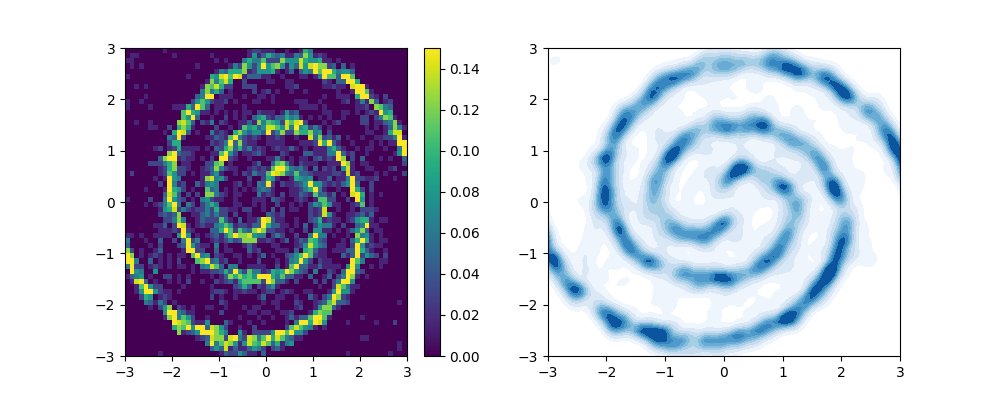
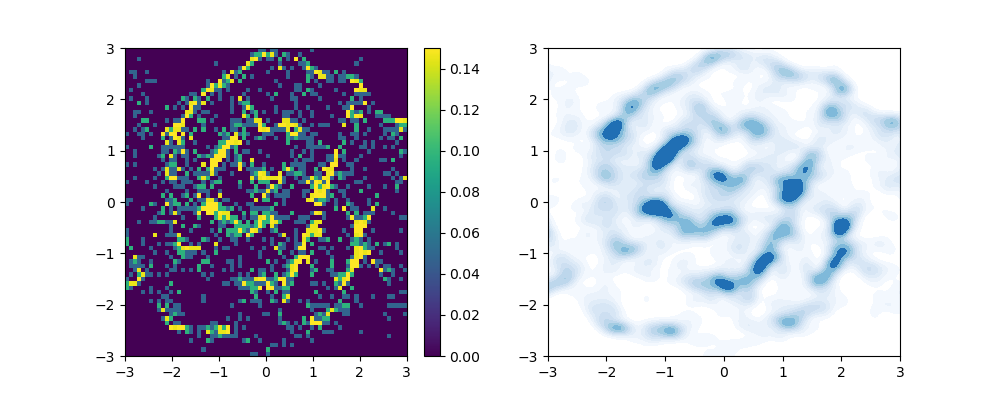
generic commit

diff --git a/scripts/transport/kvae_flow.py b/scripts/transport/kvae_flow.py
@@ -68,7 +68,7 @@ class Comp_transport_model:
         self.plot_steps = False
 
         n = len(self.submodel_params['Lambda_mean'])
-        eps = 1e-3
+        eps = 1e-4
         self.noise_shrink_c = np.exp(np.log(eps)/(n))
 
 
@@ -92,10 +92,10 @@ class Comp_transport_model:
         return z_mean
 
 
-    def map_var(self, x_mu, y_eta, y_mean, Lambda_var, X_var, y_var, fit_kernel):
+    def map_var(self, x_mu, y_eta, y_mean, Lambda_var, X_var, fit_kernel):
         if not self.approx:
             y_eta = shuffle(y_eta)
-        x_var = torch.concat([x_mu, y_eta, y_mean, y_var], dim=1)
+        x_var = torch.concat([x_mu, y_eta, y_mean], dim=1)
         Lambda_var = Lambda_var
 
         z_var = fit_kernel(X_var, x_var).T @ Lambda_var
@@ -121,7 +121,7 @@ class Comp_transport_model:
             y_var = 0 * y_mean
 
         z_mean = self.map_mean(x_mu, y_mean, Lambda_mean, X_mean, fit_kernel)
-        z_var = self.map_var(x_mu, y_eta, y_mean, Lambda_var, X_var, y_var, fit_kernel)
+        z_var = self.map_var(x_mu, y_eta, y_mean, Lambda_var, X_var,  fit_kernel)
         z = z_mean + z_var
 
         y_approx = y_mean + y_var
@@ -176,18 +176,18 @@ class CondTransportKernel(nn.Module):
 
         self.Y_mean = deepcopy(self.Y_eta)
         self.Y_var =  0 * self.Y_mean
+        self.X_var = torch.concat([self.X_mu, shuffle(self.Y_eta), self.Y_mean], dim=1)
         self.approx = self.params['approx']
         if self.approx:
             self.Y_mean = geq_1d(torch.tensor(base_params['Y_mean'], device=self.device, dtype=self.dtype))
             self.Y_var = geq_1d(torch.tensor(base_params['Y_var'], device=self.device, dtype=self.dtype))
-            self.params['approx'] = True
+            self.X_var = torch.concat([self.X_mu, self.Y_eta, self.Y_mean], dim=1)
+
+        self.X_mean = torch.concat([self.X_mu, self.Y_mean], dim=1)
         self.Y_approx = self.Y_mean + self.Y_var
 
         self.Y_mu = geq_1d(torch.tensor(base_params['Y_mu'], device=self.device, dtype=self.dtype))
         self.Y = torch.concat([self.X_mu, self.Y_mu], dim=1)
-
-        self.X_var = torch.concat([self.X_mu, self.Y_eta, self.Y_mean, self.Y_var], dim=1)
-        self.X_mean = torch.concat([self.X_mu, self.Y_mean], dim=1)
 
         self.Nx = len(self.X_mean)
         self.Ny = len(self.Y)
@@ -263,14 +263,13 @@ class CondTransportKernel(nn.Module):
         return z_mean
 
 
-    def map_var(self, x_mu, y_eta, y_mean, y_var = []):
+    def map_var(self, x_mu, y_eta, y_mean):
         if not self.approx:
             y_eta = shuffle(y_eta)
 
         y_mean = geq_1d(torch.tensor(y_mean, device=self.device, dtype=self.dtype))
-        y_var = geq_1d(torch.tensor(y_var, device=self.device, dtype=self.dtype))
 
-        x_var = torch.concat([x_mu, y_eta, y_mean, y_var], dim=1)
+        x_var = torch.concat([x_mu, y_eta, y_mean], dim=1)
         Lambda_var = self.get_Lambda_var()
 
         z_var = self.fit_kernel(self.X_var, x_var).T @ Lambda_var
@@ -288,7 +287,7 @@ class CondTransportKernel(nn.Module):
             y_var = 0 * y_mean
 
         z_mean = self.map_mean(x_mu, y_eta, y_mean)
-        z_var = self.map_var(x_mu, y_eta, y_mean, y_var)
+        z_var = self.map_var(x_mu, y_eta, y_mean)
         z = z_mean + z_var
 
         y_approx = y_mean + y_var
@@ -315,7 +314,7 @@ class CondTransportKernel(nn.Module):
 
 
     def loss_mmd(self):
-        map_vec = torch.concat([self.X_mu, self.Y_approx  + self.Z_mean +  self.Z_var], dim=1)
+        map_vec = torch.concat([self.X_mu, self.Y_approx  + self.Z_mean + self.Z_var], dim=1)
         target = self.Y
 
         mmd_ZZ = self.mmd_kernel(map_vec, map_vec)
@@ -360,7 +359,7 @@ class CondTransportKernel(nn.Module):
         return loss, loss_dict
 
 
-def cond_kernel_transport(X_mu, Y_mu, Y_eta, params, n_iter = 101,  iters = 0,  approx = False, X_mu_test = [],
+def cond_kernel_transport(X_mu, Y_mu, Y_eta, params, n_iter = 101,  iters = -1,  approx = False, X_mu_test = [],
                           Y_mean = [],Y_var = [], Y_eta_test = [],Y_mu_test = [], Y_mean_test = [], Y_var_test =[]):
     transport_params = {'X_mu': X_mu, 'Y_mu': Y_mu, 'Y_eta': Y_eta, 'reg_lambda': 1e-5, 'Y_mean': Y_mean, 'Y_var': Y_var,
                         'fit_kernel_params': deepcopy(params['mmd']), 'mmd_kernel_params': deepcopy(params['fit']),
@@ -375,8 +374,8 @@ def cond_kernel_transport(X_mu, Y_mu, Y_eta, params, n_iter = 101,  iters = 0,  
 def comp_cond_kernel_transport(X_mu, Y_mu, Y_eta, params, n_iter = 101, n = 50,
                                Y_eta_test = [], X_mu_test = [],Y_mu_test = [], f = 1):
     model_params = {'fit_kernel': [], 'Lambda_mean': [], 'X_mean': [], 'Lambda_var': [], 'X_var': []}
-    iters = 0
-    eps = 1e-3
+    iters = -1
+    eps = 1e-4
     noise_shrink_c = np.exp(np.log(eps)/(n))
 
     Y_mean = 0
@@ -701,10 +700,10 @@ def vl_exp(N=10000, n_iter=101, Yd=18, normal=True, exp_name='vl_exp'):
 
 def run():
     ref_gen = sample_normal
-    target_gen = sample_spirals
+    target_gen = mgan2
     N = 3000
     two_d_exp(ref_gen, target_gen, N, n_iter=101, plt_range=[[-3, 3], [-3, 3]], process_funcs=[], skip_idx=1,
-              slice_vals=[0], slice_range=[-3, 3], exp_name='spiral_kflow', n_transports=100, vmax=.15)
+              slice_vals=[0], slice_range=[-3, 3], exp_name='mgan2_kflow', n_transports=100, vmax=.25)
 
 
 if __name__=='__main__':
